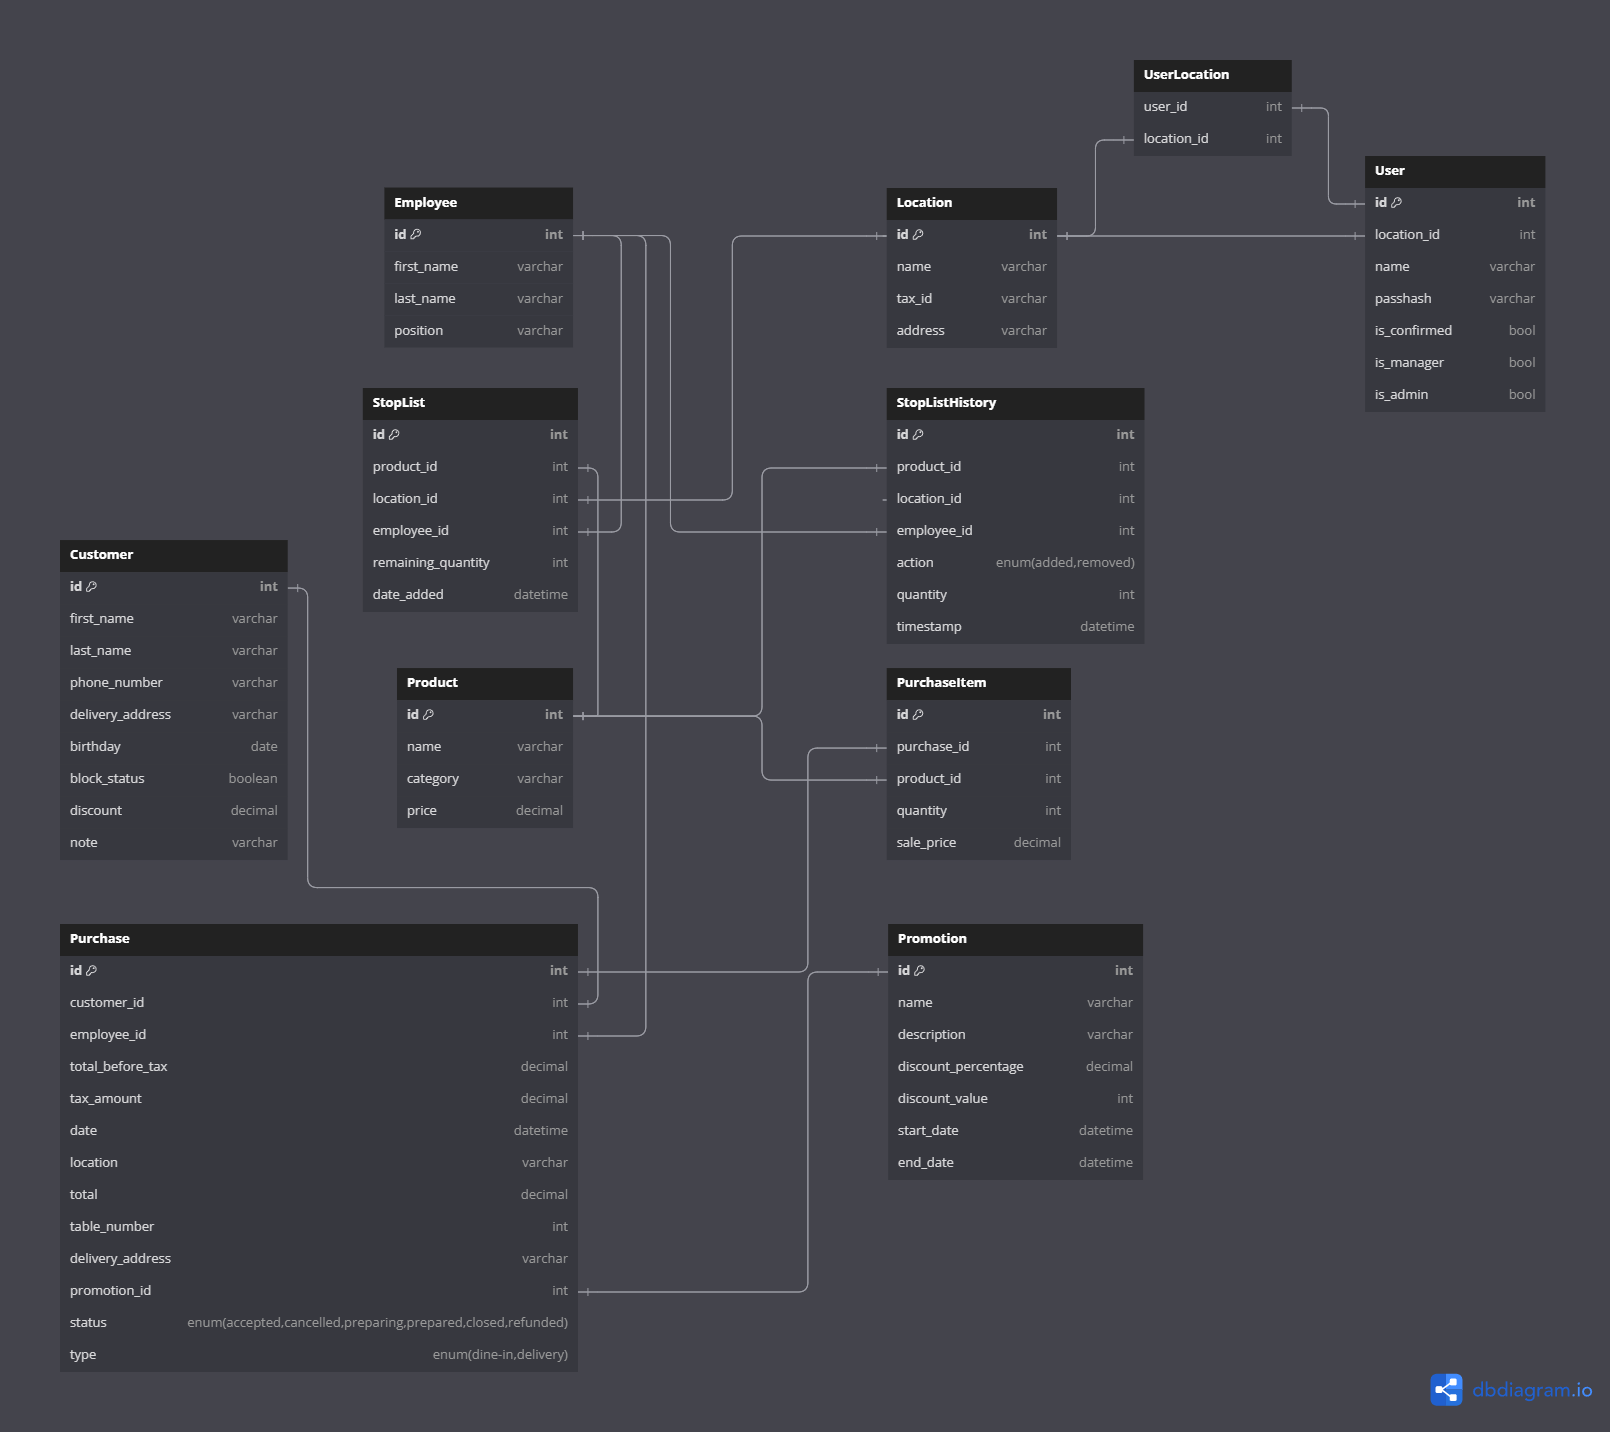
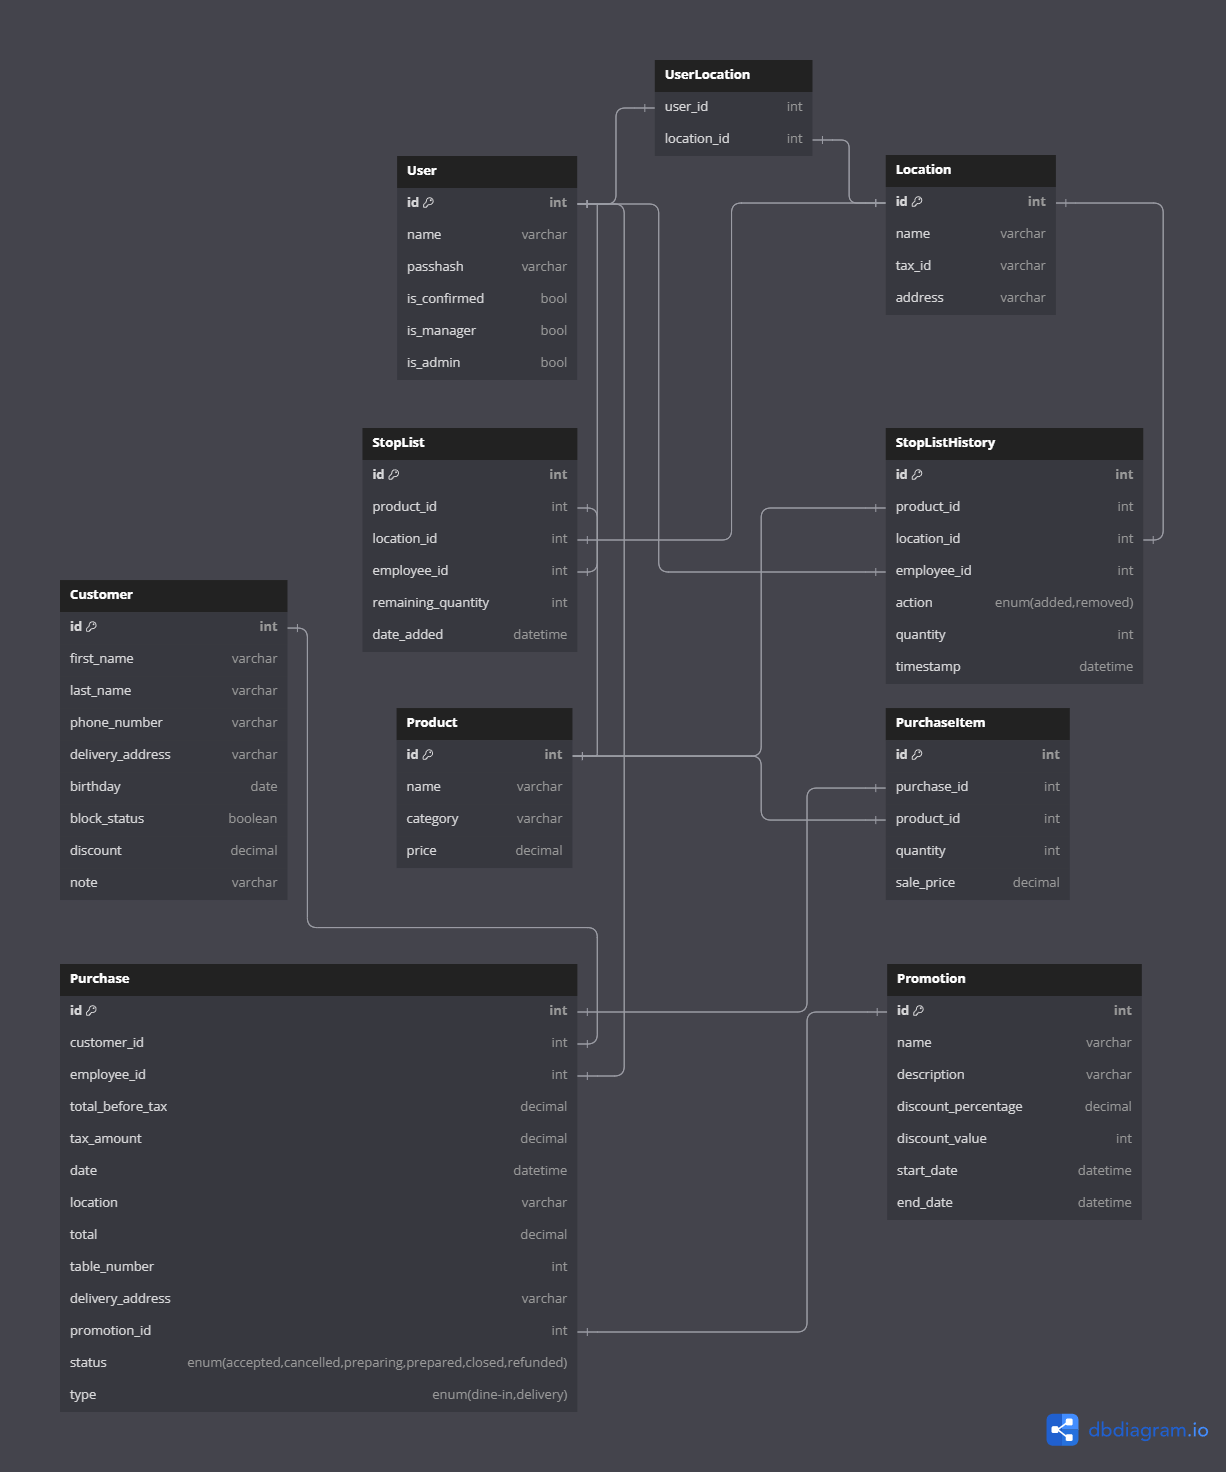
update db, add admin-panel

diff --git a/app/models.py b/app/models.py
@@ -51,8 +51,12 @@ class Location(db.Model):
         back_populates="locations",
         foreign_keys="[UserLocation.user_id, UserLocation.location_id]",
     )
-    stop_list = relationship("StopList", back_populates="location", cascade="all, delete-orphan")
-    stop_list_history = relationship("StopListHistory", back_populates="location", cascade="all, delete-orphan")
+    stop_list = relationship(
+        "StopList", back_populates="location", cascade="all, delete-orphan"
+    )
+    stop_list_history = relationship(
+        "StopListHistory", back_populates="location", cascade="all, delete-orphan"
+    )
 
 
 class UserLocation(db.Model):
@@ -80,13 +84,13 @@ class StopList(db.Model):
     id = Column(Integer, primary_key=True, autoincrement=True)
     product_id = Column(Integer, ForeignKey("product.id"), nullable=False)
     location_id = Column(Integer, ForeignKey("location.id"), nullable=False)
-    employee_id = Column(Integer, ForeignKey("employee.id"), nullable=False)
+    employee_id = Column(Integer, ForeignKey("user.id"), nullable=False)
     remaining_quantity = Column(Integer, nullable=True)
     date_added = Column(DateTime, default=datetime.now(timezone.utc))
 
     product = relationship("Product", back_populates="stop_list")
     location = relationship("Location", back_populates="stop_lists")
-    employee = relationship("Employee", back_populates="stop_list")
+    employee = relationship("User", back_populates="stop_list")
 
 
 class StopListHistory(db.Model):
@@ -95,14 +99,14 @@ class StopListHistory(db.Model):
     id = Column(Integer, primary_key=True, autoincrement=True)
     product_id = Column(Integer, ForeignKey("product.id"), nullable=False)
     location_id = Column(Integer, ForeignKey("location.id"), nullable=False)
-    employee_id = Column(Integer, ForeignKey("employee.id"), nullable=False)
+    employee = Column(Integer, ForeignKey("user.id"), nullable=False)
     action = Column(Enum("added", "removed"), nullable=False)
     remaining_quantity = Column(Integer, nullable=False)
     datetime = Column(DateTime, default=datetime.now(timezone.utc))
 
     product = relationship("Product")
     location = relationship("Location")
-    employee = relationship("Employee")
+    employee = relationship("User")
 
 
 class Customer(db.Model):
@@ -118,7 +122,9 @@ class Customer(db.Model):
     discount = Column(Float(asdecimal=True), default=0)
     note = Column(String, nullable=True)
 
-    purchases = relationship("Purchase", back_populates="customer", cascade="all, delete-orphan")
+    purchases = relationship(
+        "Purchase", back_populates="customer", cascade="all, delete-orphan"
+    )
 
 
 class Purchase(db.Model):
@@ -126,7 +132,7 @@ class Purchase(db.Model):
 
     id = Column(Integer, primary_key=True, autoincrement=True)
     customer_id = Column(Integer, ForeignKey("customer.id"), nullable=True)
-    employee_id = Column(Integer, ForeignKey("employee.id"), nullable=False)
+    employee = Column(Integer, ForeignKey("user.id"), nullable=False)
     location_id = Column(String, ForeignKey("location.id"), nullable=False)
     total_before_tax = Column(Float(asdecimal=True), nullable=False)
     tax_amount = Column(Float(asdecimal=True), nullable=False)
@@ -143,7 +149,7 @@ class Purchase(db.Model):
 
     customer = relationship("Customer", cascade="save-update")
     purchase_items = relationship("PurchaseItem", cascade="save-update, delete-orphan")
-    employee = relationship("Employee", cascade="none")
+    employee = relationship("user", cascade="none")
     promotion = relationship("Promotion", cascade="none")
 
 
@@ -160,15 +166,6 @@ class PurchaseItem(db.Model):
     product = relationship("Product")
 
 
-class Employee(db.Model):
-    __tablename__: str = "employee"
-
-    id = Column(Integer, primary_key=True, autoincrement=True)
-    first_name = Column(String, nullable=False)
-    last_name = Column(String, nullable=False)
-    position = Column(String, nullable=False)
-
-
 class Promotion(db.Model):
     __tablename__: str = "promotion"
 
@@ -179,3 +176,17 @@ class Promotion(db.Model):
     discount_value = Column(Integer, nullable=True)
     start_date = Column(DateTime, nullable=False)
     end_date = Column(DateTime, nullable=False)
+
+
+models = [
+    User,
+    Location,
+    UserLocation,
+    Product,
+    StopList,
+    StopListHistory,
+    Customer,
+    Purchase,
+    PurchaseItem,
+    Promotion,
+]

diff --git a/app/__init__.py b/app/__init__.py
@@ -1,9 +1,8 @@
-from flask import Flask, Blueprint
+from flask import Flask
 from flask_sqlalchemy import SQLAlchemy
 from flask_jwt_extended import JWTManager
 from .config import Config
 from flask_admin import Admin
-from flask_admin.contrib.sqla import ModelView
 
 
 app = Flask(
@@ -17,6 +16,7 @@ app.config.from_object(Config)
 
 db = SQLAlchemy(app)
 jwt = JWTManager(app)
+admin = Admin(app, name='MyApp Admin', template_mode='bootstrap3')
 
 from app import models, pages_routes, api_routes, perms
 from app.api_routes import api_blueprint

diff --git a/app/api_routes.py b/app/api_routes.py
@@ -30,7 +30,7 @@ def login():
     return jsonify({"msg": "Bad username or password"}), 401
 
 
-@app.route("/api/admin/confirm_user/<int:user_id>", methods=["GET", "POST"])
+@app.route("/api/confirm_user/<int:user_id>", methods=["GET", "POST"])
 @jwt_required()
 @admin_required()
 def confirm_user(user_id):

diff --git a/app/admin.py b/app/admin.py
@@ -1,0 +1,6 @@
+from . import admin, db
+from flask_admin.contrib.sqla import ModelView
+from .models import models
+
+for model in models:
+  admin.add_view(ModelView(model, db.session))

diff --git a/app/pages_routes.py b/app/pages_routes.py
@@ -21,7 +21,6 @@ def register_page():
 def app_page():
     return "0"
 
-
 @app.route("/admin/unconfirmed_users", methods=["GET"])
 @jwt_required()
 @admin_required()
